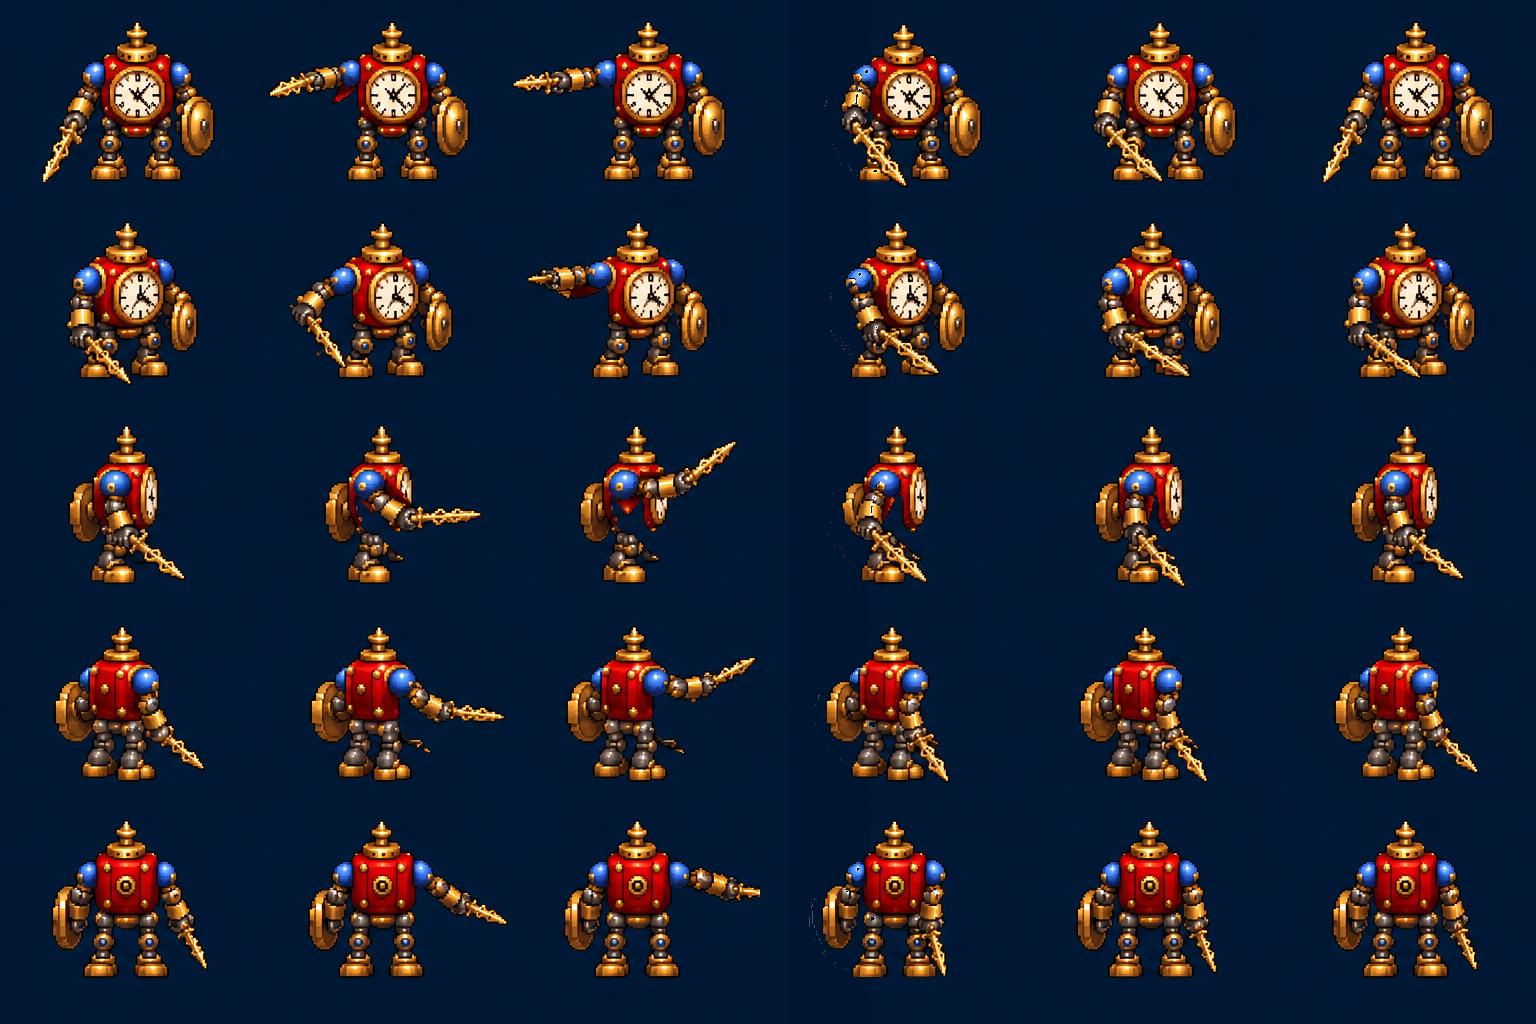
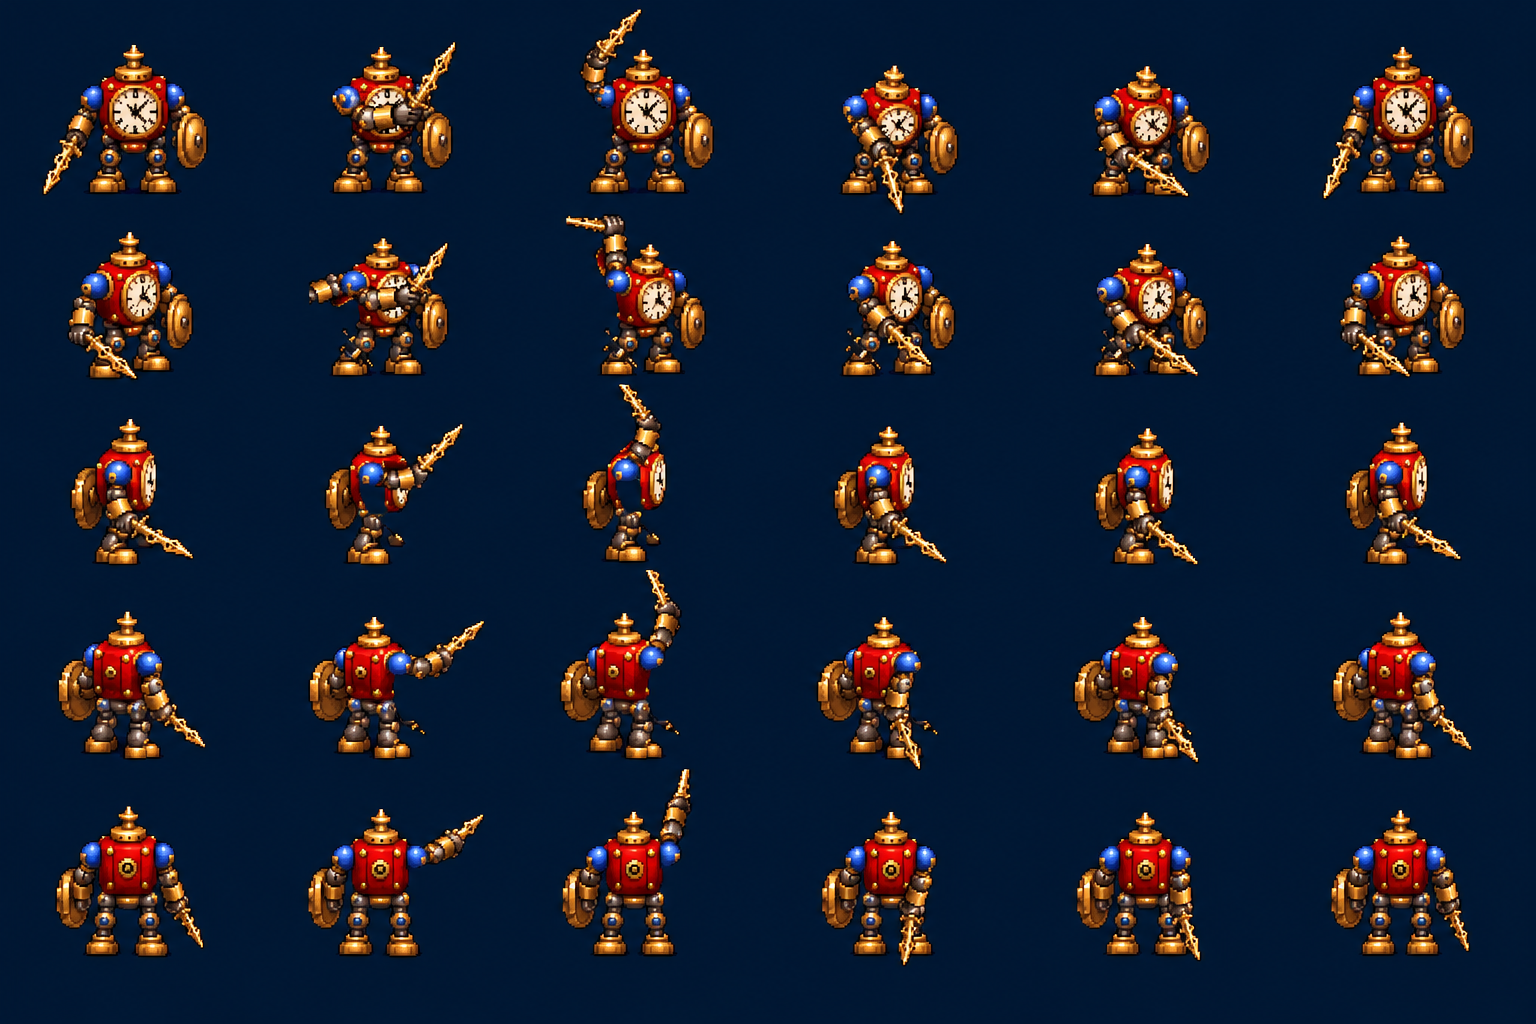
Art: Clock Soldier overhead attack (ChatGPT); Jack shoots screws
Claude-Session: https://claude.ai/code/session_01NtmEZhP1uA8k4DLQ7BYfMz

diff --git a/docs/clockwork_ground_up.md b/docs/clockwork_ground_up.md
@@ -58,5 +58,5 @@ Self-unfolding buildings (a crate unfolds and builds itself) fit the lore.
 ## Spring jumper unit idea (owner, 2026-10-26)
 - Jumps on flat ground (no upgrade); jumping UP onto high ground needs an upgrade (owner, 2026-10-26).
 - A unit standing on a coiled spring (like the Mainspring's cone spring) that JUMPS: onto enemy units and up onto high ground when it has vision there (the Stalker's Blink role).
-- Suggested by Claude, not decided: name Jack (jack-in-the-box) or Springer; tier 2 (needs the Escapement), costs cogs and Tension; the jump coils the spring (visible crouch) before the leap so it can be read and answered; cooldown; RANGED (owner, 2026-10-26): a spring-loaded bolt launcher on its right arm.
+- Suggested by Claude, not decided: name Jack (jack-in-the-box) or Springer; tier 2 (needs the Escapement), costs cogs and Tension; the jump coils the spring (visible crouch) before the leap so it can be read and answered; cooldown; RANGED (owner, 2026-10-26): its right arm is a drill-like launcher that SHOOTS SCREWS (the screw tip is the bolt).
 - Art: the cone spring rings already painted for the Mainspring can be the unit's leg (pressed flat when crouching, stretched in the air).
